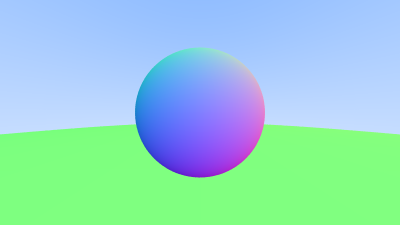
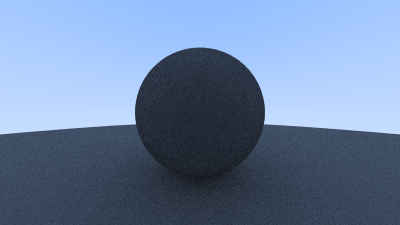
simple diffuse

diff --git a/Raytracing In One Weekend/Vec3.h b/Raytracing In One Weekend/Vec3.h
@@ -3,6 +3,8 @@
 #include <iostream>
 #include <cmath>
 
+#include "Utility.h"
+
 class vec3 
 {
 public:
@@ -48,6 +50,16 @@ public:
     double length_squared() const 
     {
         return e[0] * e[0] + e[1] * e[1] + e[2] * e[2];
+    }
+
+    static vec3 random() 
+    {
+        return vec3(random_double(), random_double(), random_double());
+    }
+
+    static vec3 random(double min, double max) 
+    {
+        return vec3(random_double(min, max), random_double(min, max), random_double(min, max));
     }
 };
 
@@ -105,5 +117,24 @@ inline vec3 cross(const vec3& u, const vec3& v)
 inline vec3 unit_vector(const vec3& v) 
 {
     return v / v.length();
+}
+
+inline vec3 random_unit_vector() 
+{
+    while (true) {
+        auto p = vec3::random(-1, 1);
+        auto lensq = p.length_squared();
+        if (1e-160 < lensq && lensq <= 1)
+            return p / sqrt(lensq);
+    }
+}
+
+inline vec3 random_on_hemisphere(const vec3& normal) 
+{
+    vec3 on_unit_sphere = random_unit_vector();
+    if (dot(on_unit_sphere, normal) > 0.0)
+        return on_unit_sphere;
+    else
+        return -on_unit_sphere;
 }
 

diff --git a/Raytracing In One Weekend/Camera.h b/Raytracing In One Weekend/Camera.h
@@ -107,7 +107,8 @@ private:
         HitRecord rec;
         if (world.Hit(r, Interval(0, infinity), rec))
         {
-            return 0.5 * (rec.normal + Color(1, 1, 1));
+            vec3 direction = random_on_hemisphere(rec.normal);
+            return 0.5 * ray_color(Ray(rec.p, direction), world);
         }
 
         vec3 unit_direction = unit_vector(r.direction());
